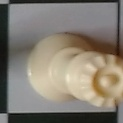
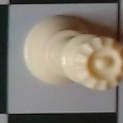
finished collecting training data for white queen

diff --git a/brain.py b/brain.py
@@ -148,14 +148,19 @@ def collectData(board, squares):
     board[62].saveImage(squares, "white", "knight", "7,8")
     board[63].saveImage(squares, "white", "rook", "8,8")
 
-
+# Collects a row of training data for the machine learning chess piece classification
 def collectRowData(board, squares, start, end, color, piece, col):
     counter = 1
     for i in range(start, end+1):
         board[i].saveImage(squares, color, piece, f"{counter},{col}")
+        counter += 1    
+
+# Collect 2 data points for the machine learning chess piece classification
+def collect2PData(board, squares, start, end, color, piece, col, start2):
+    counter = 0
+    for i in range(start, end+1):
+        board[i].saveImage(squares, color, piece, f"{start2 + counter},{col}")
         counter += 1
-    
-    
 
 # Connects to the server and processes the video feed
 def main():
@@ -207,7 +212,7 @@ def main():
                     square.saveImage(squares)
                 return
                 '''
-                collectRowData(board, squares, 56, 63 , "empty", "square", 8)
+                collect2PData(board, squares, 63, 63 , "white", "queen", 8, 8)
                 #collectData(board, squares)
                 cv2.imshow("Frame", squares[22:136, 517:640])
                 if cv2.waitKey(1) & 0xFF == ord('q'):
